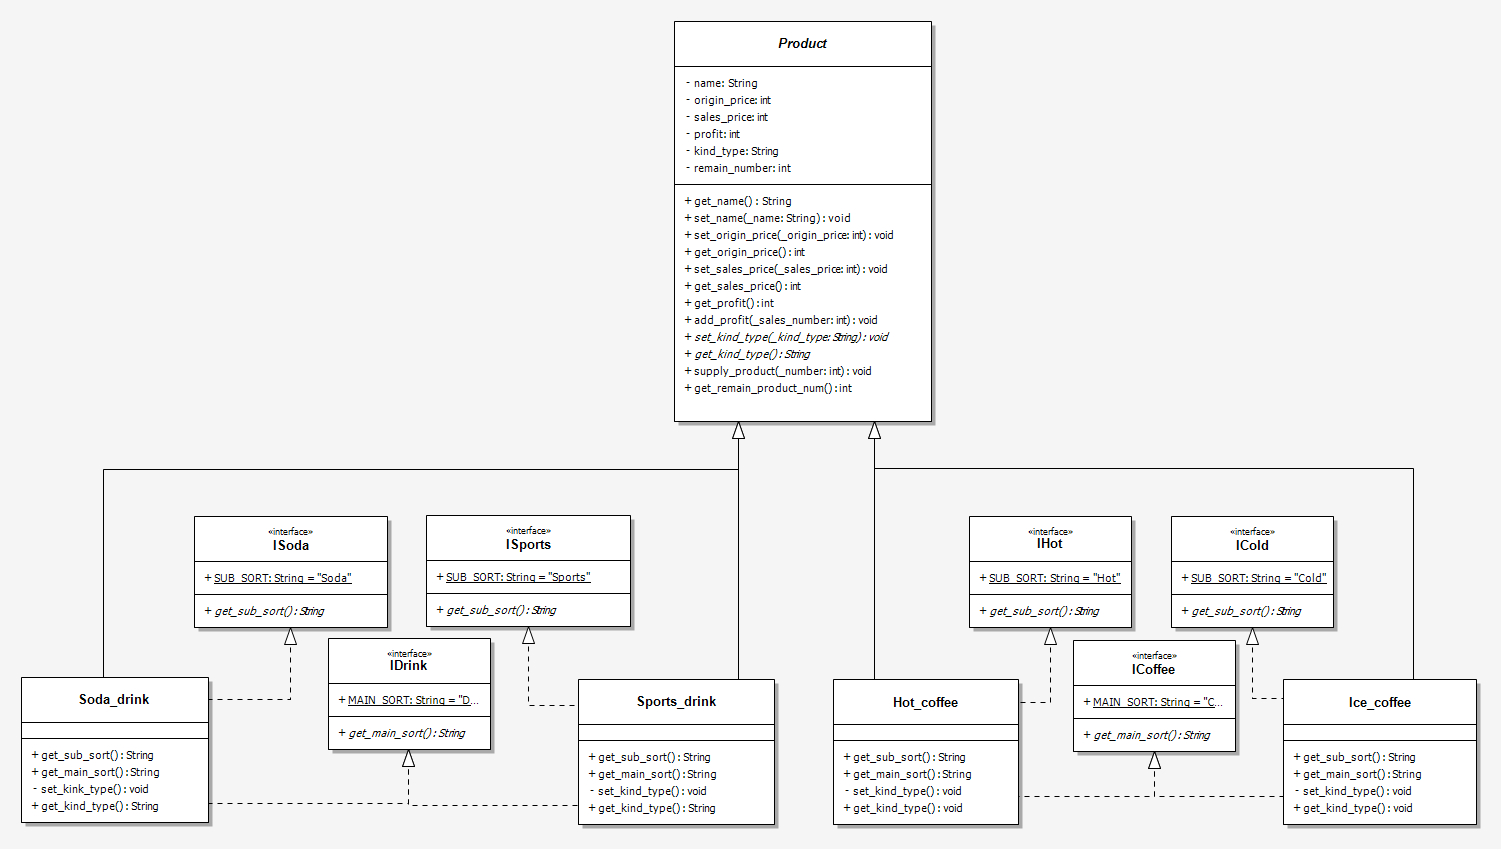
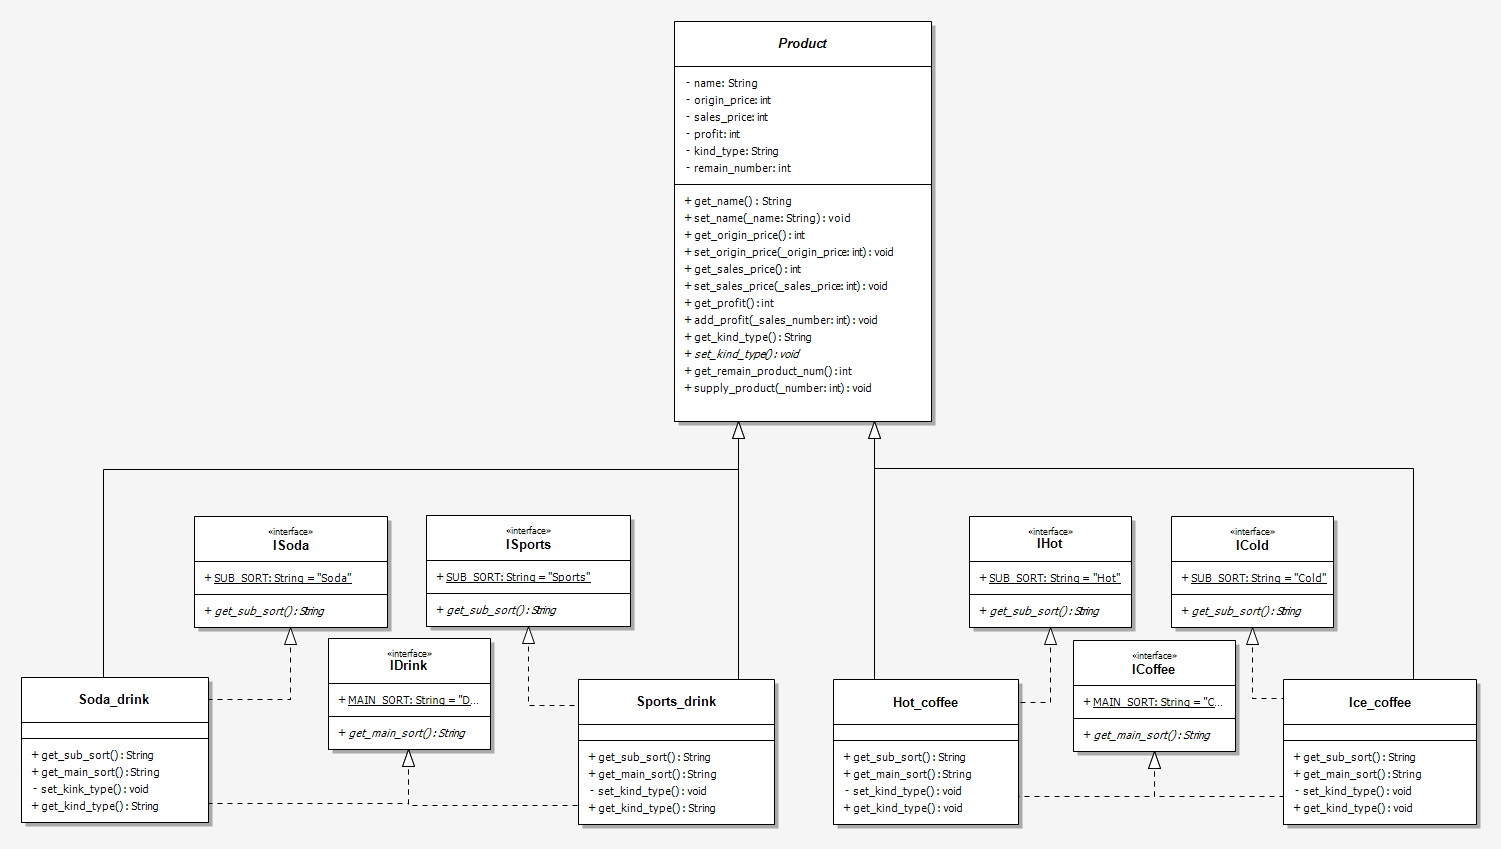
<master> : Created product folder

Changed region(s): [[0.4597, 0.2756, 0.6129, 0.4594]]

diff --git a/Java_tutorial/src/vending_machine/product/Product.java b/Java_tutorial/src/vending_machine/product/Product.java
@@ -1,0 +1,69 @@
+package vending_machine.product;
+
+public abstract class Product {
+	private String name;
+	private int origin_price;
+	private int sales_price;
+	private int profit;
+	private String kind_type;
+	private int remain_number;
+	
+	
+// name
+	public String get_name() {
+		return this.name;
+	}
+	
+	public void set_name(String _name) {
+		this.name = _name;
+	}
+	
+	
+// origin_price
+	public int get_origin_price() {
+		return this.origin_price;
+	}
+	
+	public void set_origin_price(int _origin_price) {
+		this.origin_price = _origin_price;
+	}
+	
+	
+// sales_price
+	public int get_sales_price() {
+		return this.sales_price;
+	}
+	
+	public void set_sales_price(int _sales_price) {
+		this.sales_price = _sales_price;
+	}
+	
+	
+// profit
+	public int get_profit() {
+		return this.profit;
+	}
+	
+	public void add_profit(int _sales_number) {
+		int profit = this.get_sales_price() - this.get_origin_price();
+		this.profit += profit * _sales_number;
+	}
+	
+	
+// kind_type
+	public String get_kind_type() {
+		return this.kind_type;
+	}
+	
+	public abstract void set_kind_type();
+	
+	
+// remain_number
+	public int get_remain_number() {
+		return this.remain_number;
+	}
+	
+	public void supply_product(int _number) {
+		this.remain_number += _number;
+	}
+}

diff --git a/Java_tutorial/src/vending_machine/product/ISports.java b/Java_tutorial/src/vending_machine/product/ISports.java
@@ -1,0 +1,7 @@
+package vending_machine.product;
+
+public interface ISports {
+	public final static String SUB_SORT = "Sports";
+	
+	public abstract String get_sub_sort();
+}

diff --git a/Java_tutorial/src/vending_machine/product/ISoda.java b/Java_tutorial/src/vending_machine/product/ISoda.java
@@ -1,0 +1,7 @@
+package vending_machine.product;
+
+public interface ISoda {
+	public final static String SUB_SORT = "Sports";
+	
+	public abstract String get_sub_sort();
+}

diff --git a/Java_tutorial/src/vending_machine/product/ICold.java b/Java_tutorial/src/vending_machine/product/ICold.java
@@ -1,0 +1,7 @@
+package vending_machine.product;
+
+public interface ICold {
+	public final static String SUB_SORT = "Cold";
+	
+	public abstract String get_sub_sort();
+}

diff --git a/Java_tutorial/src/vending_machine/product/IHot.java b/Java_tutorial/src/vending_machine/product/IHot.java
@@ -1,0 +1,7 @@
+package vending_machine.product;
+
+public interface IHot {
+	public final static String SUB_SORT = "Hot";
+	
+	public abstract String get_sub_sort();
+}
